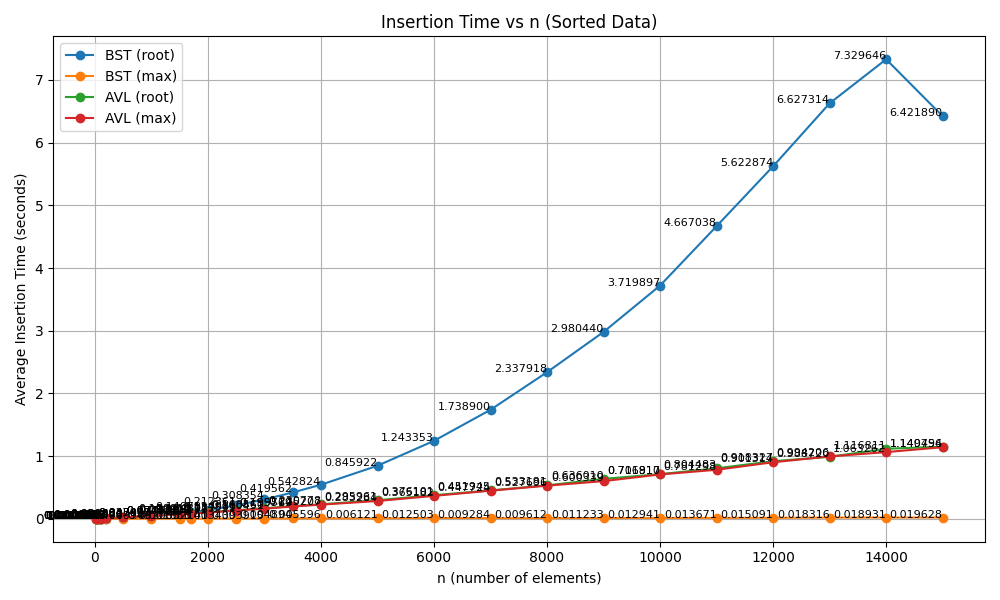
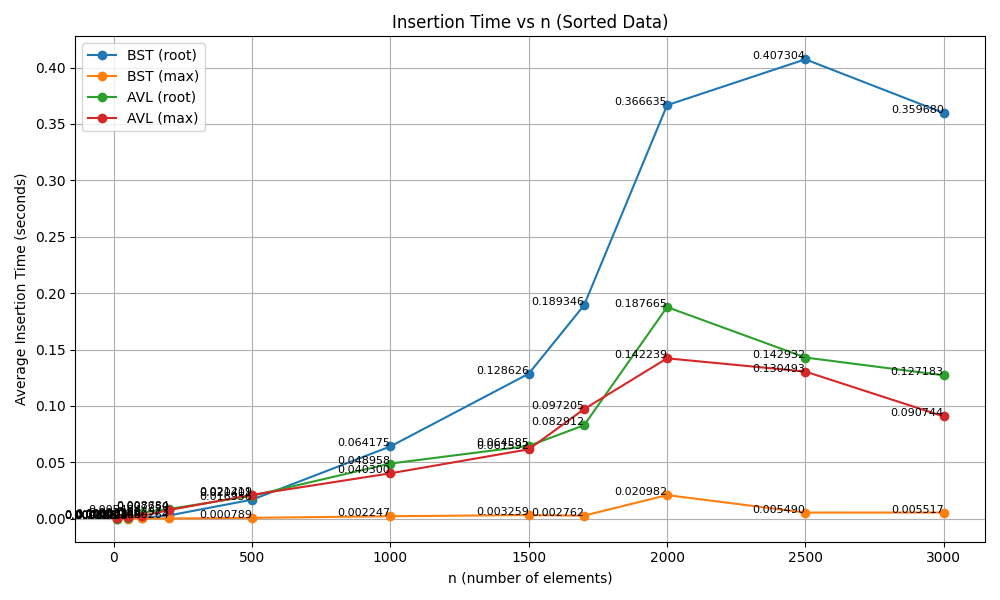
temporary fix to rebalance function making it not go up all the way and stop when height stops

diff --git a/second_experiment/compare_specific_sorted_input.py b/second_experiment/compare_specific_sorted_input.py
@@ -2,6 +2,8 @@ import time
 import sys
 import os
 import matplotlib.pyplot as plt
+from concurrent.futures import ProcessPoolExecutor
+
 sys.path.append(os.path.abspath(os.path.join(os.path.dirname(__file__), '..')))
 
 from bst import BSTree
@@ -18,19 +20,23 @@ def time_insertion(tree_class, start_mode, data):
     t1 = time.time()
     return t1 - t0
 
+def experiment_task(args):
+    n, repeats = args
+    sorted_data = generate_sorted(n)
+    avl_sorted_time = sum(time_insertion(AVLTree, "root", sorted_data) for _ in range(repeats)) / repeats
+    avl_max_time = sum(time_insertion(AVLTree, "max", sorted_data) for _ in range(repeats)) / repeats
+    bst_max_time = sum(time_insertion(BSTree, "max", sorted_data) for _ in range(repeats)) / repeats
+    return n, avl_sorted_time, avl_max_time, bst_max_time
+
 def run_experiment(sizes, repeats=5):
     results = {"AVL (root)": [], "AVL (max)": [], "BST (max)": []}
-    for n in sizes:
-        sorted_data = generate_sorted(n)
-        # AVL insert from root (sorted order)
-        avl_sorted_time = sum(time_insertion(AVLTree, "root", sorted_data) for _ in range(repeats)) / repeats
-        # AVL insert from max (sorted order)
-        avl_max_time = sum(time_insertion(AVLTree, "max", sorted_data) for _ in range(repeats)) / repeats
-        # BST insert from max (sorted order)
-        bst_max_time = sum(time_insertion(BSTree, "max", sorted_data) for _ in range(repeats)) / repeats
-        results["AVL (root)"].append((n, avl_sorted_time))
-        results["AVL (max)"].append((n, avl_max_time))
-        results["BST (max)"].append((n, bst_max_time))
+
+    with ProcessPoolExecutor() as executor:
+        for n, avl_sorted_time, avl_max_time, bst_max_time in executor.map(experiment_task, [(n, repeats) for n in sizes]):
+            results["AVL (root)"].append((n, avl_sorted_time))
+            results["AVL (max)"].append((n, avl_max_time))
+            results["BST (max)"].append((n, bst_max_time))
+
     return results
 
 def plot_results(results, folder):
@@ -53,7 +59,7 @@ def plot_results(results, folder):
     print(f"Saved graph: {out_path}")
 
 if __name__ == "__main__":
-    sizes_to_test = [10, 50, 100, 200, 500, 1000, 1500, 1700, 2000, 2500, 3000, 3500, 4000, 4500, 5000, 6000, 7000, 8000, 9000]
+    sizes_to_test = [1000, 2000, 3000, 4000, 5000, 6000, 7000]
     start_time = time.time()
     results = run_experiment(sizes_to_test)
     plot_results(results, os.path.dirname(__file__))

diff --git a/avl_tree.py b/avl_tree.py
@@ -109,23 +109,23 @@ class AVLTree(object):
     @returns: new root of the subtree after rotation
     """
     def rotate_left(self, node):
-        new_root = node.right
-        node.right = new_root.left
-        if new_root.left:
-            new_root.left.parent = node
-        new_root.left = node
-        new_root.parent = node.parent
-        node.parent = new_root
-        if new_root.parent is None:
-            self.root = new_root
-        elif new_root.parent.left == node:
-            new_root.parent.left = new_root
+        new_parent = node.right
+        node.right = new_parent.left
+        if new_parent.left:
+            new_parent.left.parent = node
+        new_parent.left = node
+        new_parent.parent = node.parent
+        node.parent = new_parent
+        if new_parent.parent is None:
+            self.root = new_parent
+        elif new_parent.parent.left == node:
+            new_parent.parent.left = new_parent
         else:
-            new_root.parent.right = new_root
+            new_parent.parent.right = new_parent
         node.update_stats()
-        new_root.update_stats()
-        self.update_upwards(new_root.parent)
-        return new_root
+        new_parent.update_stats()
+        self.update_upwards(new_parent.parent)
+        return new_parent
 
 
     """Performs a right rotation on the given node.
@@ -424,7 +424,9 @@ class AVLTree(object):
                     rotations += 1
                 node = self.rotate_left(node)
                 rotations += 1
-                
+            
+            if node.height == old_height:
+                break
             if node.parent is None:
                 self.root = node
             node = node.parent

diff --git a/second_experiment/insertion_exp.py b/second_experiment/insertion_exp.py
@@ -99,7 +99,7 @@ def plot_results(results, folder):
 
 if __name__ == "__main__":
     import time
-    sizes_to_test = [10, 50, 100, 200, 500, 1000, 1500, 1700, 2000, 2500, 3000, 3500, 4000, 5000, 6000, 7000, 8000, 9000, 10_000, 11000, 12000, 13000, 14000, 15000]
+    sizes_to_test = [10,  200, 500, 1000, 1500, 1700, 2000, 2500, 3000]
     start_time = time.time()
     results = run_all_experiments(sizes_to_test)
     # results = run_sorted_experiments(sizes_to_test)
